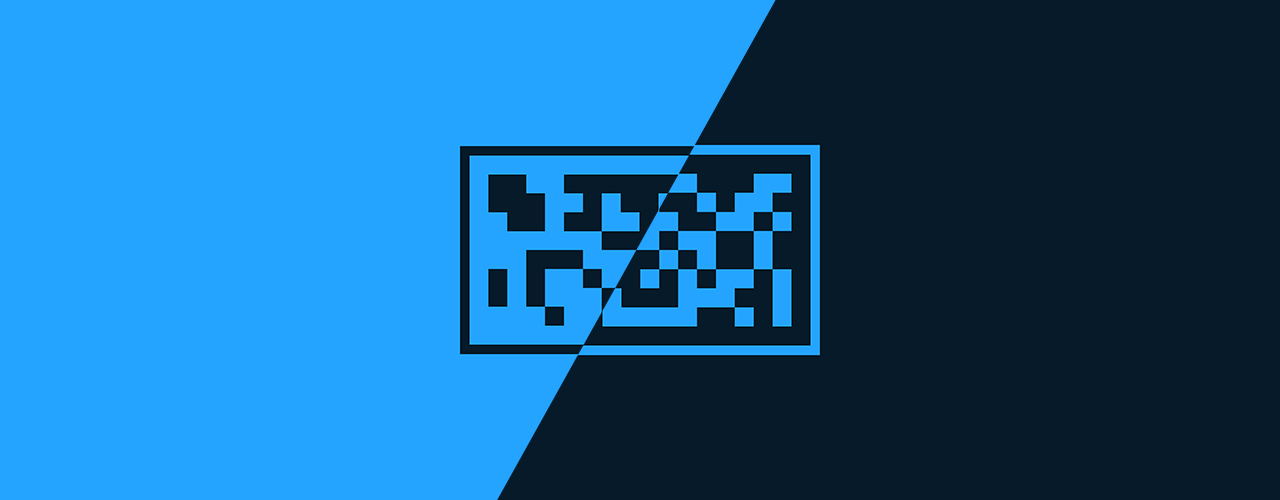
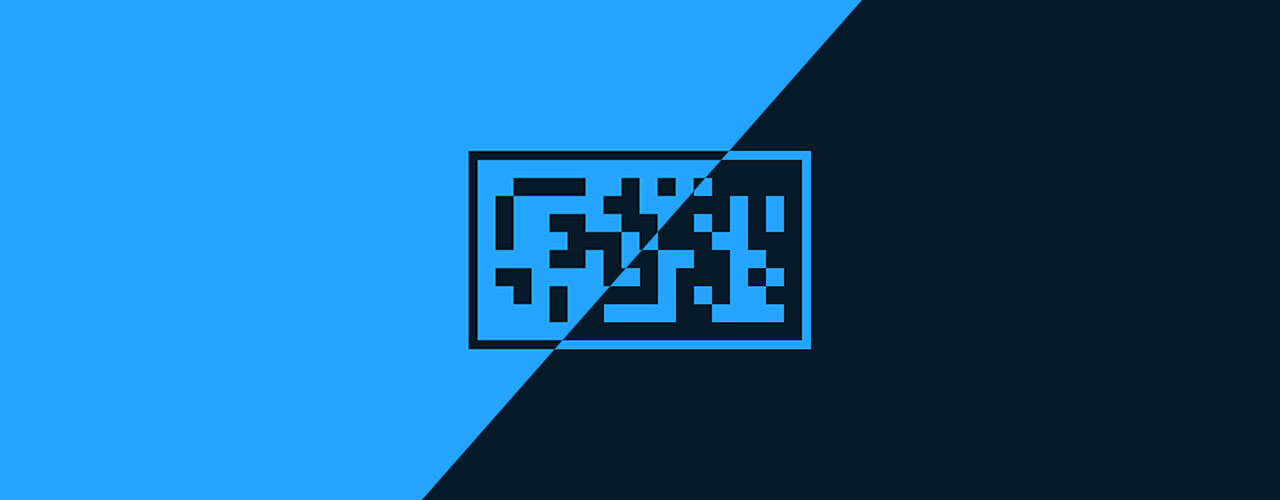
update: identicon header image

Changed region(s): [[0.3125, 0.0, 0.6875, 1.0]]

diff --git a/README.md b/README.md
@@ -1,7 +1,7 @@
 <div align="center">
 
 ![identicon](./assets/identicon.jpg)
-<sup>This identicon was generated using the SHA512 hash of the [main.go](./main.go) file of this program.</sup>
+<sup>This identicon was generated using the SHA512 hash of the [main.go](./main.go) file of this program. [🐱 this](./assets/identicon.jpg)</sup>
 
 &bull; &bull; &bull;
 
